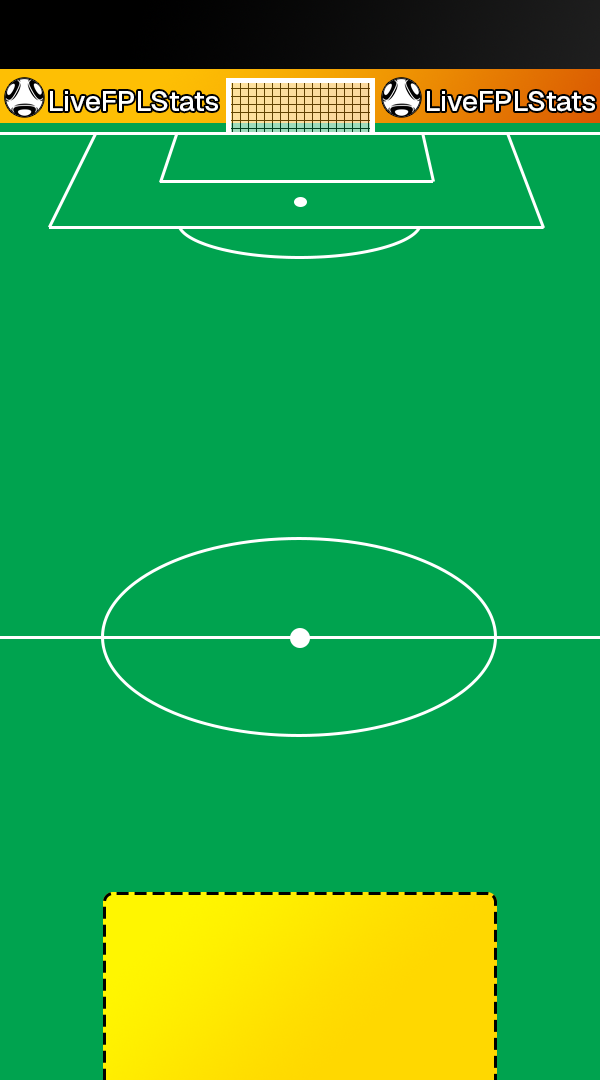
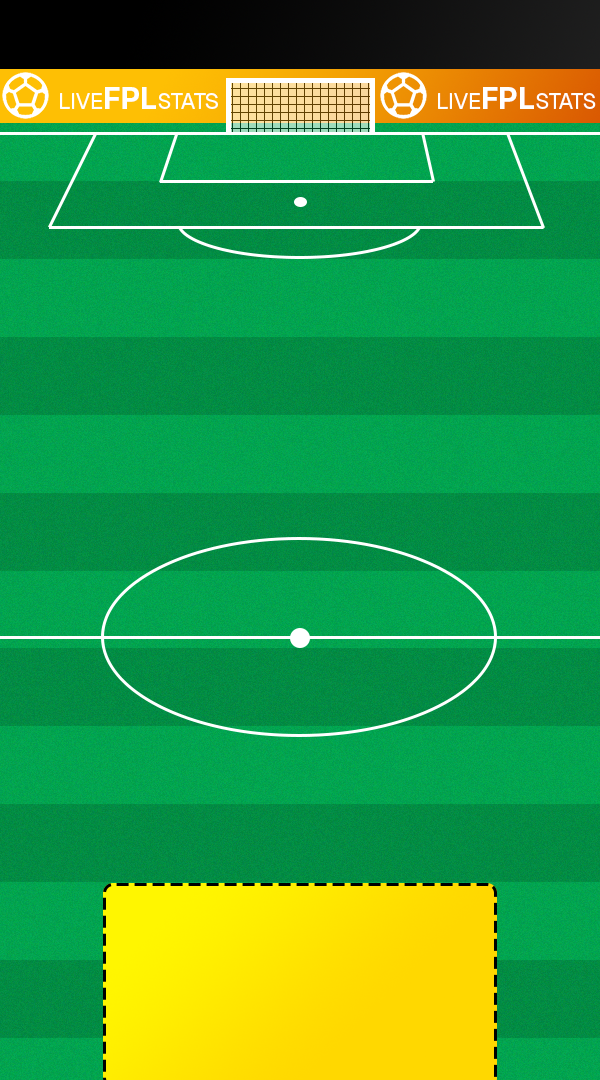
updated pitch graphics and made changes to fixtures command

diff --git a/fpl_discord_bot.py b/fpl_discord_bot.py
@@ -356,7 +356,7 @@ class FPLBot(commands.Bot):
 
     async def on_ready(self):
         logger.info(f"Logged in as {self.user} (ID: {self.user.id})")
-        await bot.change_presence(status=discord.Status.online, activity=discord.Game(name="Fantasy Premier League"))
+        await bot.change_presence(status=discord.Status.online, activity=discord.Game(name="www.livefplstats.com"))
         logger.info("Bot is ready and online.")
 
 bot = FPLBot()
@@ -958,7 +958,7 @@ async def player(interaction: discord.Interaction, player: str):
         await interaction.followup.send("Player not found.")
         return
 
-    player_name = f"{selected_player['first_name']} {selected_player['second_name']}"
+    player_name = selected_player['web_name']
 
     # Use backend league picks (DB-cached)
     raw_picks = await get_league_picks(session, int(league_id), current_gw)
@@ -1329,7 +1329,7 @@ async def captains(interaction: discord.Interaction):
                 captain_id = captain_pick['element']
                 captain_player_info = all_players.get(captain_id)
                 if captain_player_info:
-                    captain_name = f"{captain_player_info['first_name']} {captain_player_info['second_name']}"
+                    captain_name = captain_player_info['web_name']
                     manager_link = format_manager_link(manager_name, manager_id, current_gw, WEBSITE_URL)
                     captain_info.append(f"{manager_link} - **{captain_name}**")
     
@@ -1368,11 +1368,14 @@ async def fixtures(interaction: discord.Interaction, team: str = None):
     teams_map = {t['id']: t for t in bootstrap_data.get('teams', [])}
     
     embed = discord.Embed(title="Upcoming Fixtures", color=discord.Color.blue())
+    embed.description = "```\nEasy           Hard    Blank\n🟢  🟩  ⬜  🟧  🟥      ⛔\n```"
 
     team_id_to_show = int(team) if team else None
 
     def get_fdr_emoji(difficulty):
-        if difficulty <= 2:
+        if difficulty == 1:
+            return "🟢"
+        elif difficulty == 2:
             return "🟩"
         elif difficulty == 3:
             return "⬜"
@@ -1381,50 +1384,80 @@ async def fixtures(interaction: discord.Interaction, team: str = None):
         else:
             return "🟥"
 
-    upcoming_fixtures = [
-        f for f in fixtures_data 
-        if not f.get('finished', True) and f.get('event') and current_gw <= f['event'] < current_gw + 5
-    ]
-    
     if team_id_to_show:
-        team_name = teams_map[team_id_to_show]['name']
-        team_fixtures = [f for f in upcoming_fixtures if f['team_h'] == team_id_to_show or f['team_a'] == team_id_to_show]
-        
-        fixture_lines = []
-        for f in sorted(team_fixtures, key=lambda x: x['event']):
-            is_home = f['team_h'] == team_id_to_show
-            opponent = teams_map[f['team_a'] if is_home else f['team_h']]['short_name']
-            difficulty = f['team_h_difficulty'] if is_home else f['team_a_difficulty']
-            fdr_emoji = get_fdr_emoji(difficulty)
-            venue = "(H)" if is_home else "(A)"
-            fixture_lines.append(f"GW{f['event']}: vs {opponent} {venue} {fdr_emoji}")
-        
-        if fixture_lines:
-            embed.add_field(name=team_name, value="\n".join(fixture_lines), inline=False)
-        else:
-            embed.description = f"No upcoming fixtures found for {team_name} in the next 4 gameweeks."
+        # Specific team: show next 10 fixtures (including BGWs)
+        team_upcoming = [
+            f for f in fixtures_data
+            if f.get('event') and f['event'] >= current_gw
+               and (f['team_h'] == team_id_to_show or f['team_a'] == team_id_to_show)
+        ]
+        team_upcoming.sort(key=lambda x: x['event'])
+        team_upcoming = team_upcoming[:10]
 
-    else: # All teams
-        fixtures_by_team = {team_id: [] for team_id in teams_map}
-        for f in upcoming_fixtures:
-            gw_str = f"GW{f['event']}"
+        team_name = teams_map[team_id_to_show]['name']
+        fixture_lines = []
+        if team_upcoming:
+            # Find all GWs in the range to detect blanks
+            team_fixture_gws = {f['event'] for f in team_upcoming}
+            min_gw = current_gw
+            max_gw = team_upcoming[-1]['event']
+
+            fixture_idx = 0
+            for gw in range(min_gw, max_gw + 1):
+                if gw in team_fixture_gws:
+                    f = team_upcoming[fixture_idx]
+                    fixture_idx += 1
+                    is_home = f['team_h'] == team_id_to_show
+                    opponent = teams_map[f['team_a'] if is_home else f['team_h']]['short_name']
+                    difficulty = f['team_h_difficulty'] if is_home else f['team_a_difficulty']
+                    fdr_emoji = get_fdr_emoji(difficulty)
+                    venue = "(H)" if is_home else "(A)"
+                    fixture_lines.append(f"{f'GW{gw}':<5} {opponent}{venue} {fdr_emoji}")
+                else:
+                    fixture_lines.append(f"{f'GW{gw}':<5} BGW    ⛔")
+
+        if fixture_lines:
+            value_string = "```\n" + "\n".join(fixture_lines) + "\n```"
+            embed.add_field(name=team_name, value=value_string, inline=False)
+        else:
+            embed.add_field(name=teams_map[team_id_to_show]['name'], value="No upcoming fixtures found.", inline=False)
+
+    else: # All teams — next 5 GWs (showing BGWs)
+        all_upcoming = sorted(
+            [f for f in fixtures_data if f.get('event') and f['event'] >= current_gw],
+            key=lambda x: x['event']
+        )
+
+        # Build per-team fixture map: team_id -> { gw: fixture_line }
+        team_gw_fixtures = {team_id: {} for team_id in teams_map}
+        for f in all_upcoming:
+            gw = f['event']
+            gw_str = f"GW{gw}"
             # Home team
-            h_opponent = teams_map[f['team_a']]['short_name']
-            h_fdr = get_fdr_emoji(f['team_h_difficulty'])
-            fixtures_by_team[f['team_h']].append(f"{gw_str:<5} {h_opponent}(H) {h_fdr}")
+            if gw not in team_gw_fixtures[f['team_h']]:
+                h_opponent = teams_map[f['team_a']]['short_name']
+                h_fdr = get_fdr_emoji(f['team_h_difficulty'])
+                team_gw_fixtures[f['team_h']][gw] = f"{gw_str:<5} {h_opponent}(H) {h_fdr}"
             # Away team
-            a_opponent = teams_map[f['team_h']]['short_name']
-            a_fdr = get_fdr_emoji(f['team_a_difficulty'])
-            fixtures_by_team[f['team_a']].append(f"{gw_str:<5} {a_opponent}(A) {a_fdr}")
+            if gw not in team_gw_fixtures[f['team_a']]:
+                a_opponent = teams_map[f['team_h']]['short_name']
+                a_fdr = get_fdr_emoji(f['team_a_difficulty'])
+                team_gw_fixtures[f['team_a']][gw] = f"{gw_str:<5} {a_opponent}(A) {a_fdr}"
+
+        # Determine the 5 GW window
+        gw_range = list(range(current_gw, current_gw + 5))
 
         # Create a list of fields to be added
         fields_to_add = []
         for team_id, team_data in sorted(teams_map.items(), key=lambda x: x[1]['name']):
-            if fixtures_by_team[team_id]:
-                # Sort this team's fixtures by gameweek
-                sorted_fixtures = sorted(fixtures_by_team[team_id], key=lambda x: int(x.split()[0][2:]))
-                value_string = "```\n" + "\n".join(sorted_fixtures) + "\n```"
-                fields_to_add.append({'name': team_data['name'], 'value': value_string, 'inline': True})
+            lines = []
+            for gw in gw_range:
+                if gw in team_gw_fixtures[team_id]:
+                    lines.append(team_gw_fixtures[team_id][gw])
+                else:
+                    lines.append(f"{f'GW{gw}':<5} BGW    ⛔")
+            value_string = "```\n" + "\n".join(lines) + "\n```"
+            fields_to_add.append({'name': team_data['name'], 'value': value_string, 'inline': True})
         
         # Add fields in chunks of 3 to ensure alignment
         for i in range(0, len(fields_to_add), 3):
